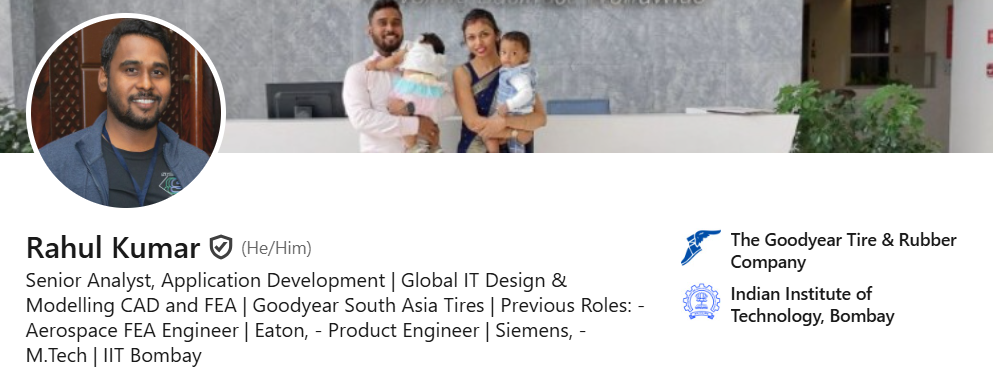
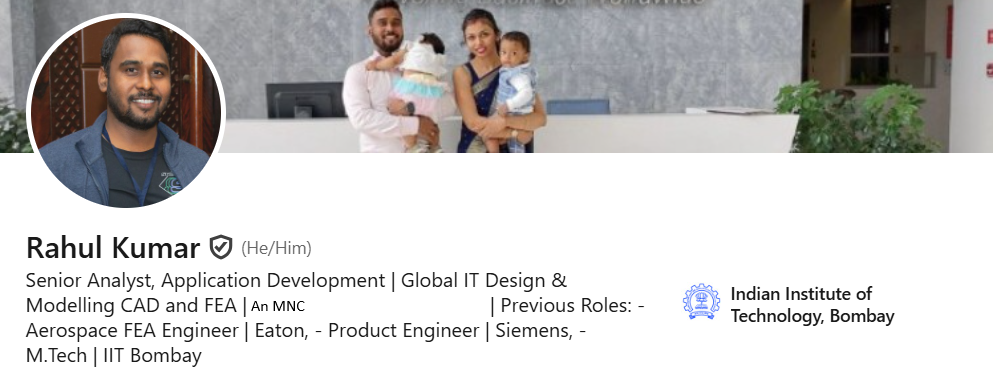
Current Organization Details hidden

Changed region(s): [[0.6868, 0.6277, 0.9678, 0.7473], [0.2497, 0.8071, 0.4995, 0.8668]]

diff --git a/about.html b/about.html
@@ -34,9 +34,9 @@
     <div class="about-section">
 
         <p class="justified-text">
-            As a Senior Analyst at Goodyear and an Aerospace Engineer with a proven track record in software development and technical leadership, 
-            I bring over six years of hands-on experience in creating transformative engineering solutions. From pioneering Goodyear’s in-house FEA and CAD
-            software to driving cutting-edge aerospace projects at Eaton and software development experience at Siemens, I thrive on 
+            As a Senior Analyst and an Aerospace Engineer with a proven track record in software development and technical leadership, 
+            I bring over six years of hands-on experience in creating transformative engineering solutions. From pioneering FEA and CAD
+            software at my current organization to driving cutting-edge aerospace projects at Eaton and software development experience at Siemens, I thrive on 
             pushing the boundaries of what’s possible.
         </p>
 

diff --git a/index.html b/index.html
@@ -31,7 +31,7 @@
                     <span class="highlight">Instructor Details:</span> 
                     <br/> Rahul Kumar 
                     <br/> Senior Analyst, Application Development 
-                    <br /> Global IT Design & Modelling CAD and FEA | Goodyear
+                    <br /> Global IT Design & Modelling CAD and FEA | An MNC
                     <br/> Previous Roles: 
                     <br /> Aerospace FEA Engineer | Eaton
                     <br /> Product Engineer | Siemens, 
